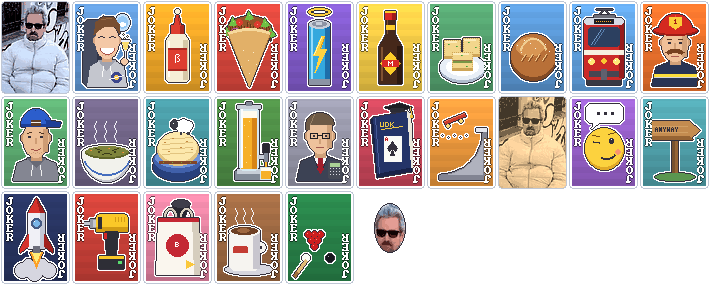
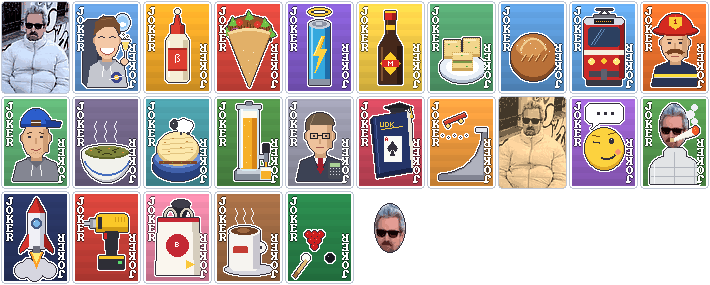
Version 1.1.0: fix Dieb crash, DübelDonnie, Half Joker shop fix, HQ poster
- Dieb: discards no longer crash (dollars effect had no card for its text)
- Crash hardening: Nachbar message target, Flusensieb victim choice,
  Rückspultaste empty/invalid snapshot, Daunendonnie removed-card guard,
  Frustsuppe reports $0 to SMODS when it blocks money
- Der kurze Gedanke (Half Joker) is a full-size card again, so the shop
  buy button is visible; effect re-implemented with vanilla numbers
- Anyway -> DübelDonnie: +1 Mult per High Card played, new art
- Buttplugs bei Butlers: clearer description with an example
- Promo poster rendered at 2x from the 2x sprites, smoother card fan

Changed region(s): [[0.8986, 0.3368, 1.0, 0.6737]]

diff --git a/tools/promo.py b/tools/promo.py
@@ -2,16 +2,19 @@
 
 Usage: python promo.py <path to m6x11plus.ttf>
 (Balatro's pixel font; extract it from Balatro.exe: resources/fonts/m6x11plus.ttf)
+
+Rendered at S times the base layout from the 2x sprite sheets, so the art stays crisp.
 """
 import os
 import sys
-from PIL import Image, ImageDraw, ImageFont
+from PIL import Image, ImageDraw, ImageFilter, ImageFont
 
 ROOT = os.path.join(os.path.dirname(os.path.abspath(__file__)), '..')
-A = os.path.join(ROOT, 'assets', '1x')
+A = os.path.join(ROOT, 'assets', '2x')
 FONT_PATH = sys.argv[1]
 
-W, H = 71, 95
+S = 2                      # output scale; layout numbers below are in 1x units
+W, H = 71 * 2, 95 * 2      # card cell size in the 2x sheets
 BG, PANEL, PANEL_EDGE = (30, 38, 44), (48, 58, 64), (70, 84, 92)
 WHITE, GREY, LIGHT = (255, 255, 255), (150, 156, 170), (214, 220, 228)
 RARITY = {
@@ -31,6 +34,8 @@ def sheet(name):
 
 
 def sprite(name, x, y, soul=None, w=W, h=H):
+    if (w, h) != (W, H):
+        w, h = w * 2, h * 2  # other cell sizes are given in 1x pixels
     im = sheet(name).crop((x * w, y * h, x * w + w, y * h + h))
     if soul:
         im = im.copy()
@@ -39,7 +44,7 @@ def sprite(name, x, y, soul=None, w=W, h=H):
 
 
 def font(size):
-    return ImageFont.truetype(FONT_PATH, size)
+    return ImageFont.truetype(FONT_PATH, size * S)
 
 
 F_TITLE, F_SUB, F_HEAD, F_NAME, F_BODY, F_BADGE = font(150), font(42), font(60), font(30), font(24), font(20)
@@ -74,9 +79,9 @@ NEW_JOKERS = [  # sprite, name, rarity, food?, effect
     (J(6, 1), 'Die Rampe', 'Rare', False, 'X0.25 Mult for each discard used this round.'),
     (J(7, 1), 'Classic Donnie', 'Rare', False, 'Retriggers cards whose rank you played last hand.'),
     (J(8, 1), 'Ihr checkt schon, was ich meine', 'Rare', False, 'Flushes and Straights may be one card short.'),
-    (J(9, 1), 'Anyway', 'Uncommon', False, 'Switch hand type: permanently +4 Mult.'),
+    (J(9, 1), 'DübelDonnie', 'Uncommon', False, 'Every High Card played: permanently +1 Mult.'),
     (J(1, 2), 'Der Akkuschrauber', 'Common', False, 'Gains +3 Mult each round. Beat a Boss: +$15, then gone.'),
-    (J(2, 2), 'Buttplugs bei Butlers', 'Uncommon', False, 'Retriggers played cards once per hand already played this round.'),
+    (J(2, 2), 'Buttplugs bei Butlers', 'Uncommon', False, 'Scored cards retrigger once per hand already played this round (3rd hand: they score 3 times).'),
     (J(3, 2), 'Kaffee', 'Common', True, '+1 discard next round. Costs $4 each round.'),
     (J(4, 2, (5, 2)), "Donnie O'Sullivan", 'Legendary', False, 'X6.9 Mult. 1 in 4: loses the thread, debuffed next round.'),
 ]
@@ -170,8 +175,10 @@ CONSUMABLES = [
 
 
 # --- drawing -----------------------------------------------------------------------------
-COLS, TILE_W, TILE_H, GAP, MARGIN = 5, 500, 226, 18, 50
+# layout numbers are written in 1x units and multiplied by S
+COLS, TILE_W, TILE_H, GAP, MARGIN = 5, 500 * S, 226 * S, 18 * S, 50 * S
 PAGE_W = MARGIN * 2 + COLS * TILE_W + (COLS - 1) * GAP
+SHADOW = (12, 14, 18)
 
 
 def wrap(d, text, f, width):
@@ -188,38 +195,62 @@ def wrap(d, text, f, width):
     return lines
 
 
+def shadow_text(d, xy, text, f, fill, off=2):
+    d.text((xy[0] + off * S, xy[1] + off * S), text, font=f, fill=SHADOW)
+    d.text(xy, text, font=f, fill=fill)
+
+
 def badge(d, x, y, text, colour):
     tw = d.textlength(text, font=F_BADGE)
-    d.rounded_rectangle((x, y, x + tw + 14, y + 26), 6, fill=colour)
-    d.text((x + 7, y + 3), text, font=F_BADGE, fill=WHITE)
-    return x + tw + 22
+    d.rounded_rectangle((x, y + 2 * S, x + tw + 14 * S, y + 28 * S), 6 * S, fill=tuple(int(c * 0.55) for c in colour))
+    d.rounded_rectangle((x, y, x + tw + 14 * S, y + 26 * S), 6 * S, fill=colour)
+    d.text((x + 7 * S, y + 3 * S), text, font=F_BADGE, fill=WHITE)
+    return x + tw + 22 * S
+
+
+def drop_shadow(page, box, radius, offset, alpha):
+    x0, y0, x1, y1 = box
+    pad = radius * 3
+    sh = Image.new('RGBA', (x1 - x0 + pad * 2, y1 - y0 + pad * 2), (0, 0, 0, 0))
+    ImageDraw.Draw(sh).rounded_rectangle((pad, pad, pad + x1 - x0, pad + y1 - y0), 14 * S, fill=(0, 0, 0, alpha))
+    sh = sh.filter(ImageFilter.GaussianBlur(radius))
+    page.alpha_composite(sh, (x0 - pad + offset, y0 - pad + offset))
 
 
 def tile(page, x, y, img, scale, name, rarity, badges, effect):
-    d = ImageDraw.Draw(page)
+    accent = RARITY.get(rarity, WHITE)
+    drop_shadow(page, (x, y, x + TILE_W, y + TILE_H), 6 * S, 5 * S, 140)
     panel = Image.new('RGBA', (TILE_W + 1, TILE_H + 1), (0, 0, 0, 0))
-    ImageDraw.Draw(panel).rounded_rectangle((0, 0, TILE_W, TILE_H), 14, fill=PANEL + (225,), outline=PANEL_EDGE + (255,), width=3)
+    pd = ImageDraw.Draw(panel)
+    pd.rounded_rectangle((0, 0, TILE_W, TILE_H), 14 * S, fill=PANEL + (232,), outline=PANEL_EDGE + (255,), width=3 * S)
+    pd.rounded_rectangle((3 * S, 3 * S, TILE_W - 3 * S, 40 * S), 11 * S, fill=(255, 255, 255, 10))  # top sheen
+    pd.rectangle((3 * S, 18 * S, 7 * S, TILE_H - 18 * S), fill=accent + (255,))                   # rarity stripe
     page.alpha_composite(panel, (x, y))
     big = img.resize((img.width * scale, img.height * scale), Image.NEAREST)
-    page.alpha_composite(big, (x + 14 + (142 - big.width) // 2, y + (TILE_H - big.height) // 2))
-    tx, tw = x + 172, TILE_W - 186
-    ty = y + 14
+    sh = Image.new('RGBA', big.size, (0, 0, 0, 0))
+    sh.putalpha(big.getchannel('A').point(lambda a: 120 if a else 0))
+    bx, by = x + 16 * S + (142 * S - big.width) // 2, y + (TILE_H - big.height) // 2
+    page.alpha_composite(sh, (bx + 4 * S, by + 4 * S))
+    page.alpha_composite(big, (bx, by))
+    d = ImageDraw.Draw(page)
+    tx, tw = x + 172 * S, TILE_W - 186 * S
+    ty = y + 14 * S
     for line in wrap(d, name, F_NAME, tw):
-        d.text((tx, ty), line, font=F_NAME, fill=RARITY.get(rarity, WHITE))
-        ty += 32
+        shadow_text(d, (tx, ty), line, F_NAME, accent)
+        ty += 32 * S
     bx = tx
     for text, colour in badges:
-        bx = badge(d, bx, ty + 2, text, colour)
-    ty += 38
+        bx = badge(d, bx, ty + 2 * S, text, colour)
+    ty += 38 * S
     for line in wrap(d, effect, F_BODY, tw):
         d.text((tx, ty), line, font=F_BODY, fill=LIGHT)
-        ty += 26
+        ty += 26 * S
 
 
 def swirl_background(w, h):
-    """Balatro-style swirly backdrop, rendered at 1/8 size and upscaled for chunky pixels."""
+    """Balatro-style swirly backdrop, rendered at 1/(8S) size and upscaled for chunky pixels."""
     import numpy as np
-    sw, sh = w // 8, h // 8
+    sw, sh = w // (8 * S), h // (8 * S)
     yy, xx = np.mgrid[0:sh, 0:sw].astype(float)
     cx, cy = sw * 0.5, sh * 0.12
     r = np.hypot(xx - cx, yy - cy)
@@ -233,28 +264,36 @@ def swirl_background(w, h):
     return img.convert('RGBA')
 
 
+def rotate_crisp(img, angle):
+    """Rotate pixel art without jagged edges: supersample, rotate smoothly, scale back down."""
+    up = img.resize((img.width * 2, img.height * 2), Image.NEAREST)
+    rot = up.rotate(angle, resample=Image.BICUBIC, expand=True)
+    return rot.resize((rot.width // 2, rot.height // 2), Image.LANCZOS)
+
+
 def card_fan(page, cards, cx, top, scale=4, spread=14):
     n = len(cards)
     for i, card in enumerate(cards):
         k = i - (n - 1) / 2
-        big = card.resize((card.width * scale, card.height * scale), Image.NEAREST)
+        big = card.resize((card.width * scale // 2 * S, card.height * scale // 2 * S), Image.NEAREST)
         shadow = Image.new('RGBA', big.size, (0, 0, 0, 0))
         shadow.putalpha(big.getchannel('A').point(lambda a: 110 if a else 0))
-        angle = -k * spread / max(1, (n - 1) / 2) * 1.0
-        rot = big.rotate(angle, resample=Image.NEAREST, expand=True)
-        rsh = shadow.rotate(angle, resample=Image.NEAREST, expand=True)
-        x = int(cx + k * 205 - rot.width / 2)
-        y = int(top + abs(k) ** 1.6 * 14)
-        page.alpha_composite(rsh, (x + 10, y + 12))
+        angle = -k * spread / max(1, (n - 1) / 2)
+        rot = rotate_crisp(big, angle)
+        rsh = shadow.rotate(angle, resample=Image.BICUBIC, expand=True).filter(ImageFilter.GaussianBlur(4 * S))
+        x = int(cx + k * 205 * S - rot.width / 2)
+        y = int(top + abs(k) ** 1.6 * 14 * S)
+        page.alpha_composite(rsh, (x + 10 * S, y + 12 * S))
         page.alpha_composite(rot, (x, y))
 
 
 def section(page, y, title, subtitle, colour):
     d = ImageDraw.Draw(page)
-    d.rectangle((MARGIN, y + 70, PAGE_W - MARGIN, y + 74), fill=colour)
-    d.text((MARGIN, y), title, font=F_HEAD, fill=colour)
-    d.text((MARGIN + d.textlength(title, font=F_HEAD) + 24, y + 26), subtitle, font=F_BODY, fill=GREY)
-    return y + 100
+    d.rectangle((MARGIN + 2 * S, y + 72 * S, PAGE_W - MARGIN + 2 * S, y + 76 * S), fill=SHADOW)
+    d.rectangle((MARGIN, y + 70 * S, PAGE_W - MARGIN, y + 74 * S), fill=colour)
+    shadow_text(d, (MARGIN, y), title, F_HEAD, colour, 3)
+    d.text((MARGIN + d.textlength(title, font=F_HEAD) + 24 * S, y + 26 * S), subtitle, font=F_BODY, fill=GREY)
+    return y + 100 * S
 
 
 def grid(page, y, items, draw_item):
@@ -262,65 +301,64 @@ def grid(page, y, items, draw_item):
         x = MARGIN + (i % COLS) * (TILE_W + GAP)
         draw_item(page, x, y + (i // COLS) * (TILE_H + GAP), item)
     rows = (len(items) + COLS - 1) // COLS
-    return y + rows * (TILE_H + GAP) + 30
+    return y + rows * (TILE_H + GAP) + 30 * S
 
 
 def rows_height(n):
-    return ((n + COLS - 1) // COLS) * (TILE_H + GAP) + 30 + 100
+    return ((n + COLS - 1) // COLS) * (TILE_H + GAP) + 130 * S
 
 
 if __name__ == '__main__':
-    header = 860
+    header = 860 * S
     total = (header + rows_height(len(NEW_JOKERS)) + rows_height(len(REPLACEMENTS)) + rows_height(len(BOSSES))
-             + rows_height(len(VOUCHERS)) + rows_height(len(CONSUMABLES)) + 120)
+             + rows_height(len(VOUCHERS)) + rows_height(len(CONSUMABLES)) + 120 * S)
     page = swirl_background(PAGE_W, total)
     d = ImageDraw.Draw(page)
 
     title = 'DONLATRO'
     tw = d.textlength(title, font=F_TITLE)
     for off, col in ((8, (16, 18, 22)), (0, (254, 95, 85))):
-        d.text(((PAGE_W - tw) / 2 + off, 30 + off), title, font=F_TITLE, fill=col)
+        d.text(((PAGE_W - tw) / 2 + off * S, (30 + off) * S), title, font=F_TITLE, fill=col)
     fan = [J(0, 0), J(3, 0), J(1, 1), J(4, 2, (5, 2)), J(6, 1), J(9, 1), J(1, 0)]
-    card_fan(page, fan, PAGE_W / 2, 215)
+    card_fan(page, fan, PAGE_W / 2, 215 * S)
     d = ImageDraw.Draw(page)
     sub = 'A Balatro mod  -  everything new at a glance'
-    d.text(((PAGE_W - d.textlength(sub, font=F_SUB)) / 2 + 3, 683), sub, font=F_SUB, fill=(16, 18, 22))
-    d.text(((PAGE_W - d.textlength(sub, font=F_SUB)) / 2, 680), sub, font=F_SUB, fill=WHITE)
+    shadow_text(d, ((PAGE_W - d.textlength(sub, font=F_SUB)) / 2, 680 * S), sub, F_SUB, WHITE, 3)
     stats = (f'{len(NEW_JOKERS)} new Jokers  |  {len(REPLACEMENTS)} reworked Jokers  |  {len(BOSSES)} Bosses  |  '
              f'{len(VOUCHERS)} Vouchers  |  2 Tarots  |  3 Spectrals  |  2 Decks')
-    d.text(((PAGE_W - d.textlength(stats, font=F_BODY)) / 2, 740), stats, font=F_BODY, fill=LIGHT)
-    lx = (PAGE_W - 900) / 2                                                  # legend
-    lx = badge(d, lx, 790, 'NEW', NEW_C)
-    d.text((lx, 791), 'brand-new creation', font=F_BODY, fill=LIGHT)
-    lx += 260
-    lx = badge(d, lx, 790, 'REPLACES ...', REPL_C)
-    d.text((lx, 791), 'vanilla Joker, renamed + redrawn', font=F_BODY, fill=LIGHT)
-    lx += 400
-    lx = badge(d, lx, 790, 'FOOD', FOOD_C)
-    d.text((lx, 791), 'runs out', font=F_BODY, fill=LIGHT)
+    shadow_text(d, ((PAGE_W - d.textlength(stats, font=F_BODY)) / 2, 740 * S), stats, F_BODY, LIGHT)
+    lx = (PAGE_W - 900 * S) / 2                                              # legend
+    lx = badge(d, lx, 790 * S, 'NEW', NEW_C)
+    d.text((lx, 791 * S), 'brand-new creation', font=F_BODY, fill=LIGHT)
+    lx += 260 * S
+    lx = badge(d, lx, 790 * S, 'REPLACES ...', REPL_C)
+    d.text((lx, 791 * S), 'vanilla Joker, renamed + redrawn', font=F_BODY, fill=LIGHT)
+    lx += 400 * S
+    lx = badge(d, lx, 790 * S, 'FOOD', FOOD_C)
+    d.text((lx, 791 * S), 'runs out', font=F_BODY, fill=LIGHT)
     y = header
 
     y = section(page, y, 'NEW JOKERS', 'original Donlatro creations', NEW_C)
     y = grid(page, y, NEW_JOKERS, lambda p, x, yy, it: tile(
-        p, x, yy, it[0], 2, it[1], it[2],
+        p, x, yy, it[0], S, it[1], it[2],
         [('NEW', NEW_C), (it[2].upper(), RARITY[it[2]])] + ([('FOOD', FOOD_C)] if it[3] else []), it[4]))
 
     def repl(p, x, yy, it):
         idx, name, vanilla, rarity, effect = it
         img = sprite('Jokers.png', 0, 2) if idx is None else R(idx, idx + 4 if idx >= 41 else None)
-        tile(p, x, yy, img, 2, name, rarity, [('REPLACES ' + vanilla.upper(), REPL_C)], effect)
+        tile(p, x, yy, img, S, name, rarity, [('REPLACES ' + vanilla.upper(), REPL_C)], effect)
 
     y = section(page, y, 'REWORKED JOKERS', 'vanilla effects with a Donlatro name and new art', REPL_C)
     y = grid(page, y, REPLACEMENTS, repl)
 
     y = section(page, y, 'BOSS BLINDS', 'new opponents', RARITY['Boss'])
-    y = grid(page, y, BOSSES, lambda p, x, yy, it: tile(p, x, yy, it[0], 4, it[1], it[2], [(it[2].upper(), RARITY[it[2]])], it[3]))
+    y = grid(page, y, BOSSES, lambda p, x, yy, it: tile(p, x, yy, it[0], 2 * S, it[1], it[2], [(it[2].upper(), RARITY[it[2]])], it[3]))
 
     y = section(page, y, 'VOUCHERS', 'base voucher and its upgrade', RARITY['Voucher'])
-    y = grid(page, y, VOUCHERS, lambda p, x, yy, it: tile(p, x, yy, it[0], 2, it[1], 'Voucher', [('VOUCHER', RARITY['Voucher'])], it[2]))
+    y = grid(page, y, VOUCHERS, lambda p, x, yy, it: tile(p, x, yy, it[0], S, it[1], 'Voucher', [('VOUCHER', RARITY['Voucher'])], it[2]))
 
     y = section(page, y, 'TAROTS, SPECTRALS & DECKS', 'more ways to break the run', RARITY['Spectral'])
-    y = grid(page, y, CONSUMABLES, lambda p, x, yy, it: tile(p, x, yy, it[0], 2, it[1], it[2], [(it[2].upper(), RARITY[it[2]])], it[3]))
+    y = grid(page, y, CONSUMABLES, lambda p, x, yy, it: tile(p, x, yy, it[0], S, it[1], it[2], [(it[2].upper(), RARITY[it[2]])], it[3]))
 
     out = os.path.join(ROOT, 'promo')
     os.makedirs(out, exist_ok=True)

diff --git a/tools/duebeldonnie_art.py b/tools/duebeldonnie_art.py
@@ -1,0 +1,82 @@
+"""DübelDonnie: Donnie (head from the Daunendonnie photo) in his puffer jacket with a big joint.
+
+Writes the card straight into assets/1x/Jokers.png and assets/2x/Jokers.png at cell x=9, y=1
+(where the old "Anyway" sign was), plus duebeldonnie_preview.png into the current directory.
+"""
+import os
+import sys
+from PIL import Image, ImageDraw, ImageEnhance
+
+sys.path.insert(0, os.path.dirname(os.path.abspath(__file__)))
+from food_art import card_base, add_letters, outline, W, H  # noqa: E402
+
+ROOT = os.path.join(os.path.dirname(os.path.abspath(__file__)), '..')
+PHOTO = os.path.join(ROOT, 'working', 'Daunendonnie.jpg')
+CELL = (9, 1)
+BG = (84, 150, 78)
+
+
+def head():
+    """Head cut out of the photo (with sunglasses), pixelated to 30x44."""
+    src = Image.open(PHOTO).convert('RGB').crop((262, 10, 422, 250))
+    src = ImageEnhance.Color(ImageEnhance.Contrast(src).enhance(1.25)).enhance(1.2)
+    small = src.resize((30, 44), Image.LANCZOS).quantize(16, dither=Image.NONE).convert('RGBA')
+    mask = Image.new('L', small.size, 0)
+    ImageDraw.Draw(mask).ellipse((1, 0, 28, 43), fill=255)
+    small.putalpha(mask)
+    return small
+
+
+def body(d):
+    jacket, jacket_s, jacket_h = (226, 228, 230), (178, 182, 190), (246, 247, 250)
+    d.rounded_rectangle((11, 62, 59, 100), 14, fill=jacket)                    # puffer jacket
+    d.rounded_rectangle((25, 53, 46, 66), 5, fill=jacket)                      # high collar
+    for y in (72, 81):                                                         # quilting
+        d.line((12, y, 58, y), fill=jacket_s)
+    d.line((35, 57, 35, 90), fill=jacket_s)                                    # zip
+    d.line((15, 68, 15, 90), fill=jacket_h)
+    d.line((55, 68, 55, 90), fill=jacket_s)
+    d.rectangle((0, 89, W, H), fill=(0, 0, 0, 0))                              # cut off at the frame
+
+
+def joint(d):
+    paper, paper_s, filt = (250, 248, 240), (214, 208, 196), (222, 186, 132)
+    d.polygon([(34, 43), (54, 32), (57, 39), (35, 46)], fill=paper)            # big cone
+    d.line((35, 46, 57, 39), fill=paper_s)
+    d.rectangle((31, 43, 34, 46), fill=filt)                                   # tip in mouth
+    d.ellipse((53, 31, 59, 39), fill=(240, 90, 40))                            # ember
+    d.point((55, 33), fill=(255, 210, 90))
+    d.point((56, 35), fill=(255, 170, 60))
+
+
+def smoke(card):
+    d = ImageDraw.Draw(card)
+    col = (236, 236, 244, 200)
+    for x, y, r in ((55, 26, 3), (51, 19, 4), (55, 12, 3)):
+        d.ellipse((x - r, y - r, x + r, y + r), fill=col)
+
+
+def draw():
+    card = card_base(BG)
+    obj = Image.new('RGBA', (W, H), (0, 0, 0, 0))
+    body(ImageDraw.Draw(obj))
+    h = head()
+    obj.alpha_composite(h, (20, 9))
+    joint(ImageDraw.Draw(obj))
+    outline(obj)
+    card.alpha_composite(obj)
+    smoke(card)
+    add_letters(card, BG)
+    return card
+
+
+if __name__ == '__main__':
+    card = draw()
+    x, y = CELL
+    for scale in (1, 2):
+        path = os.path.join(ROOT, 'assets', f'{scale}x', 'Jokers.png')
+        sheet = Image.open(path).convert('RGBA')
+        big = card.resize((W * scale, H * scale), Image.NEAREST)
+        sheet.paste(big, (x * W * scale, y * H * scale))
+        sheet.save(path)
+    card.resize((W * 4, H * 4), Image.NEAREST).save('duebeldonnie_preview.png')

diff --git a/README.md b/README.md
@@ -9,9 +9,9 @@ A [Balatro](https://www.playbalatro.com/) mod by MichaelP: 24 new Jokers, 46 rew
 
 Download from the [latest release](https://github.com/michapachali-glitch/Donlatro/releases/latest):
 
-- **`Donlatro-1.0.0-EasyInstall-Windows.zip`** - everything included (Lovely + Steamodded + Donlatro).
+- **`Donlatro-1.1.0-EasyInstall-Windows.zip`** - everything included (Lovely + Steamodded + Donlatro).
   Copy two things and play; step-by-step instructions (English + Deutsch) are in `INSTALL.txt`.
-- **`Donlatro-1.0.0.zip`** - just the mod, if you already have Lovely (>= 0.9.0) and
+- **`Donlatro-1.1.0.zip`** - just the mod, if you already have Lovely (>= 0.9.0) and
   [Steamodded](https://github.com/Steamodded/smods): put the `Donlatro` folder into `%AppData%\Balatro\Mods\`.
 
 ## Test mode
